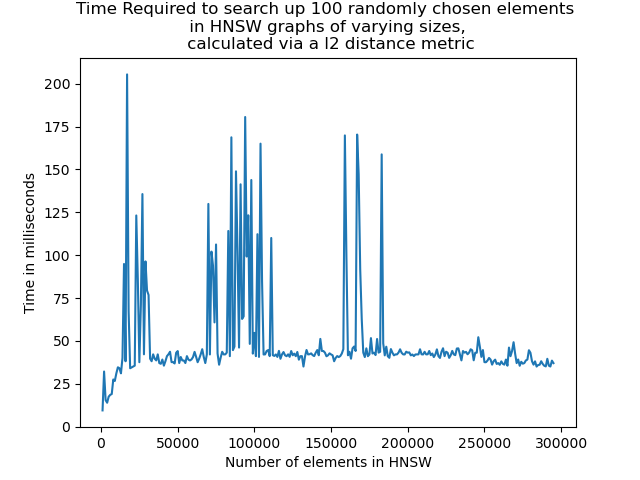
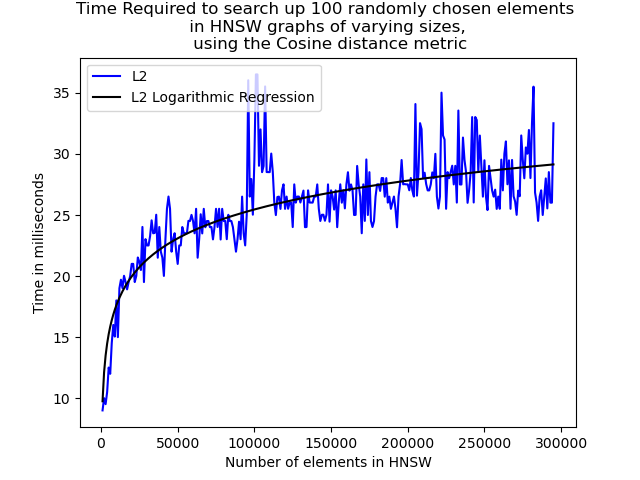
Created all final graphs for all distance metrics

diff --git a/graph_picked_data.py b/graph_picked_data.py
@@ -1,36 +1,58 @@
 import pickle
 import matplotlib.pyplot as plt
-from scipy.ndimage import gaussian_filter1d
+import math
+import numpy as np
+from sklearn.linear_model import LogisticRegression
+import scipy.optimize as opt
 
 with open("datacosine.pickle","rb") as fp:
     cosine_data = pickle.load(fp)
-    cosine_x = cosine_data[0]
-    cosine_y = cosine_data[1]
+    cosine_x = np.array(cosine_data[0])
+    cosine_y = np.array(cosine_data[1])
 
 with open("dataip.pickle","rb") as fp:
     ip_data = pickle.load(fp)
-    ip_x = ip_data[0]
-    ip_y = ip_data[1]
+    ip_x = np.array(ip_data[0])
+    ip_y = np.array(ip_data[1])
 with open("datal2.pickle","rb") as fp:
     l2_data = pickle.load(fp)
-    l2_x = l2_data[0]
-    l2_y = l2_data[1]
+    l2_x = np.array(l2_data[0])
+    l2_y = np.array(l2_data[1])
 generic_fig = plt.figure()
 
 
-cosine_y_smoothed = gaussian_filter1d(cosine_y,sigma=4)
-ip_y_smoothed = gaussian_filter1d(ip_y,sigma=4)
-l2_y_smoothed = gaussian_filter1d(l2_y,sigma=4)
+#cosine_y_smoothed = gaussian_filter1d(cosine_y,sigma=4)
+#ip_y_smoothed = gaussian_filter1d(ip_y,sigma=4)
+#l2_y_smoothed = gaussian_filter1d(l2_y,sigma=4)
 
-plt.plot(cosine_x,cosine_y_smoothed,color="r",label="Cosine")
-plt.plot(ip_x,ip_y_smoothed,color="g",label="IP")
-plt.plot(l2_x,l2_y_smoothed,color="b",label="L2")
+#plt.plot(cosine_x,cosine_y_smoothed,color="r",label="Cosine")
+#plt.plot(ip_x,ip_y_smoothed,color="g",label="IP")
+#plt.plot(l2_x,l2_y_smoothed,color="b",label="L2")
 
-#plt.plot(cosine_x,cosine_y, color="r",label="Cosine")
+#Logistic regression model for cosine
+def f(x, a, b):
+    
+    return a * np.log2(x) + b
+popt1, _ = opt.curve_fit(f, cosine_x, cosine_y)
+y_fit_cosine = f(cosine_x, *popt1)
+print("Cosine:",popt1[0],popt1[1])
+popt2,_ = opt.curve_fit(f,ip_x,ip_y)
+y_fit_ip = f(ip_x,*popt2)
+popt3,_ = opt.curve_fit(f,l2_x,l2_y)
+y_fit_l2 = f(l2_x,*popt3)
+print("IP:",popt2[0],popt2[1])
+print("L2:",popt3[0],popt3[1])
+
 #plt.plot(ip_x,ip_y, color="g",label="IP")
-#plt.plot(l2_x,l2_y, color="b",label="L2")
+#plt.plot(ip_x,y_fit_ip, color="black",label="IP Logarithmic Regression")
+plt.plot(l2_x,l2_y, color="b",label="L2")
+plt.plot(l2_x,y_fit_l2, color="black",label="L2 Logarithmic Regression")
+#plt.plot(cosine_x,cosine_y, color="r",label="Cosine")
+#plt.plot(cosine_x,y_fit_cosine, color="black",label="Cosine Logarithmic Regression")
+
+
 plt.xlabel("Number of elements in HNSW")
 plt.ylabel("Time in milliseconds")
-plt.legend(loc = "upper right")
-plt.title(f"Time Required to search up 100 randomly chosen elements \n in HNSW graphs of varying sizes, \n calculated via various distance metrics")
+plt.legend(loc = "upper left")
+plt.title(f"Time Required to search up 100 randomly chosen elements \n in HNSW graphs of varying sizes, \n using the L2 distance metric")
 plt.show()

diff --git a/word-embeddings.py b/word-embeddings.py
@@ -10,7 +10,7 @@ import random
 
 spaceName = "cosine"
 wordList= []
-count = 10000
+count = 300000
 def write_list(a_list):
     with open(f'embeddings{count}.pickle','wb') as fp:
         pickle.dump(a_list,fp)
@@ -73,9 +73,15 @@ else:
     print(f"Succesfully loaded model in {end_time - start_time} seconds")
 
 
-new_word = "ofoal"
+new_word1 = "king"
 
-new_embedding =  model.encode([new_word])
+new_word2 = "crown"
+new_word1 =  model.encode([new_word1])
+new_word2 = model.encode([new_word2])
+new_embedding = (new_word2 + new_word1)
+print(new_word1[0][0])
+print(new_word2[0][0])
+print(new_embedding[0][0])
 # Fetch k neighbours
 start_time = time.time()
 for i in range(100):
@@ -87,15 +93,6 @@ print(elapsed_time)
 print(wordList[labels[0][0]])
 
 
-
-fig = plt.figure()
-x = [1,2,3,4,5]
-y = [2,4,8,16,32]
-plt.plot(x,y)
-plt.xlabel("Number of elements in HNSW")
-plt.ylabel("Time in milliseconds")
-plt.title(f"Time Required to search up 100 randomly chosen elements \n in HNSW graphs of varying sizes, \n calculated via a {spaceName} distance metric")
-plt.show()
 
 
 #Start from what graphs I want, then come from there.

diff --git a/README.md b/README.md
@@ -2,3 +2,22 @@
 This repo contains the code for our implementation of the HNSW algorithm (Hierarchical Navigable Small Worlds) for our CS 2051 Math paper.
 
 I, Ankith, will eventually create a python file that measures the performance of a specific hnsw algorithm in querying a vector database for the nearest neighbours.
+
+## Logarithmic Regression
+
+Using the logarithmic function $y = a \log_{2}(x) + b$ I calculate the parameters that best fit each of the graphs created by the varying distance metrics. The graphs are in the figures folder.
+
+### Cosine
+**a**: 1.9052
+
+**b**: -8.46 
+### Inner Product
+**a**: 1.90521
+
+**b**: -7.31
+### L2
+**a**: 2.3636
+
+**b**: -13.8
+The logarthmic regression functions are seen here.
+![Image](figures/HNSW_logarithmic_regressions_v0.png)
